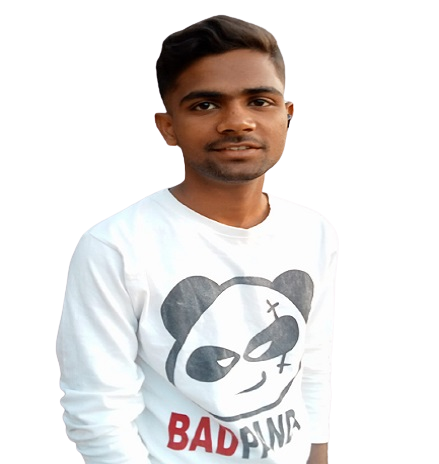
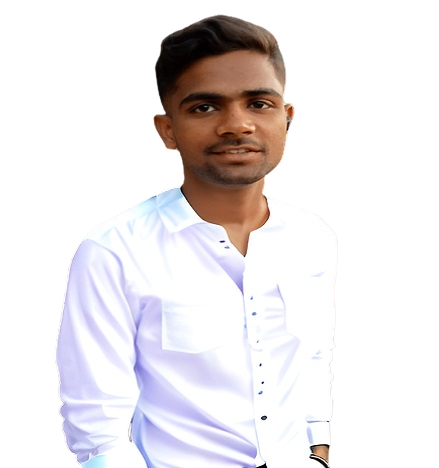
shubham

diff --git a/about.html b/about.html
@@ -179,7 +179,7 @@
     </div>
 </section>
  
-      <section class="bg-light wt-section">
+      <section class="bg-light wt-section ">
         <div class="container">
           <header class="text-center w-md-50 mx-auto mb-5">
             <h2 class="h1">Our Team</h2>
@@ -189,7 +189,7 @@
           <div class="row">
             <div class="col-lg-3 col-sm-6 mb-5"> 
               <figure>
-                <img class="w-100 rounded-top" src="assets/img/team/img1.png" alt="sunil Gupta"> 
+                <img class="w-100 rounded-top team-bg" src="assets/img/team/img1.png" alt="sunil Gupta"> 
                 <div class="wt-box-shadow-sm bg-white text-center rounded p-4">
                   <div class="mb-3">
                     <h5 class="mb-1 text-uppercase">Sunil Gupta</h5>
@@ -204,7 +204,7 @@
 
             <div class="col-lg-3 col-sm-6 mb-5"> 
               <figure>
-                <img class="w-100 rounded-top" src="assets/img/team/img2.jpg" alt="gaurav Prajapati"> 
+                <img class="w-100 rounded-top team-bg " src="assets/img/team/img2.png" alt="gaurav Prajapati"> 
                 <div class="wt-box-shadow-sm bg-white text-center rounded p-4">
                   <div class="mb-3">
                     <h5 class="mb-1 text-uppercase">Gaurav Prajapati</h5>
@@ -219,7 +219,7 @@
 
             <div class="col-lg-3 col-sm-6 mb-5"> 
               <figure>
-                <img class="w-100 rounded-top" src="assets/img/team/img3.png" alt="shubham maurya">
+                <img class="w-100 rounded-top team-bg " src="assets/img/team/img3.png" alt="shubham maurya">
  
                 <div class="wt-box-shadow-sm bg-white text-center rounded p-4">
                   <div class="mb-3">
@@ -235,7 +235,7 @@
 
             <div class="col-lg-3 col-sm-6 mb-5"> 
               <figure>
-                <img class="w-100 rounded-top" src="assets/img/team/img4.png" alt="rajat Vishwakarma"> 
+                <img class="w-100 rounded-top team-bg " src="assets/img/team/img4.png" alt="rajat Vishwakarma"> 
                 <div class="wt-box-shadow-sm bg-white text-center rounded p-4">
                   <div class="mb-3">
                     <h5 class="mb-1 text-uppercase">Rajat Vishwakarma</h5>

diff --git a/assets/css/styles.css b/assets/css/styles.css
@@ -106,7 +106,7 @@ h6 {
 
 .client_logos-img{
     padding: 12px;
-    background-color: #f5e08e;
+    background-color: #dfba27;
     border-radius: 20px;
 }
 
@@ -123,11 +123,14 @@ h6 {
 }
 
 .sub-header-text{
-    color: #ea1228;
+    color: #88539a;
    
   
 }
-
+.team-bg{
+    background-color: #f5e08e;
+    b
+}
 
 
 /*------------------------------------
